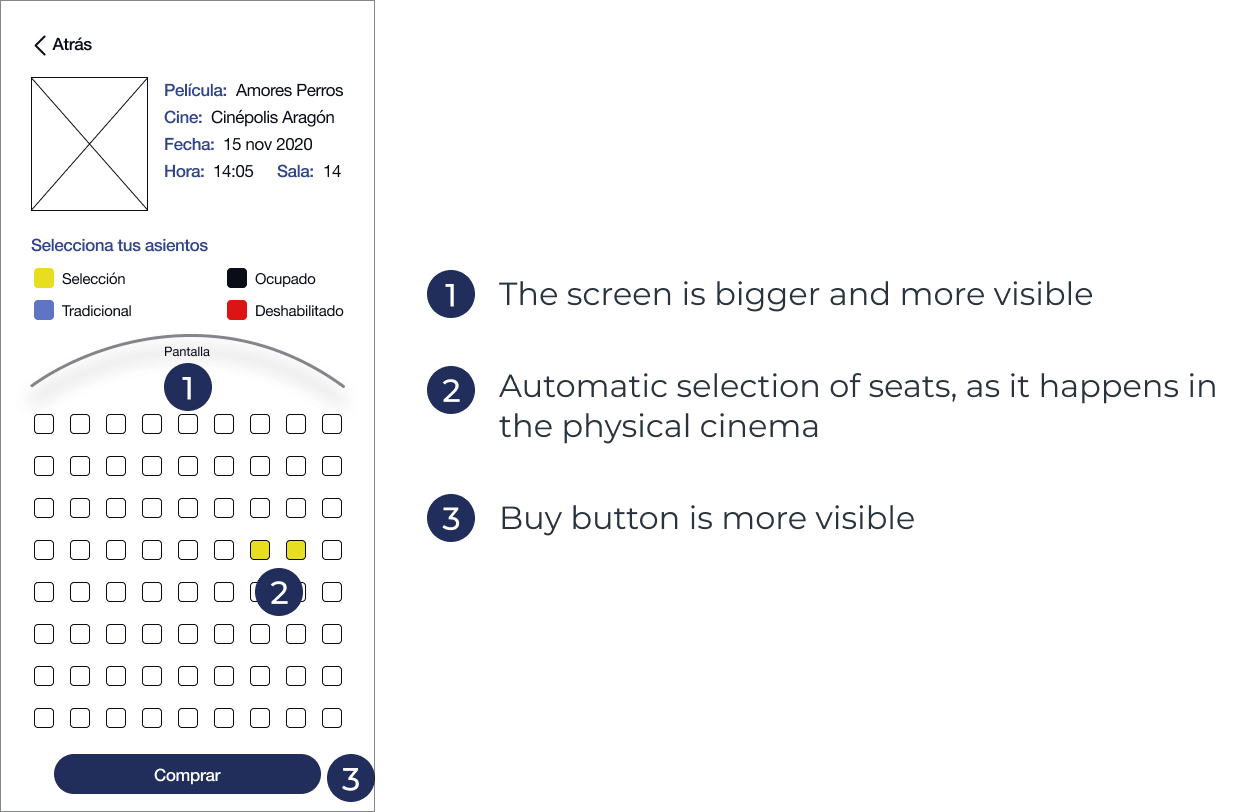
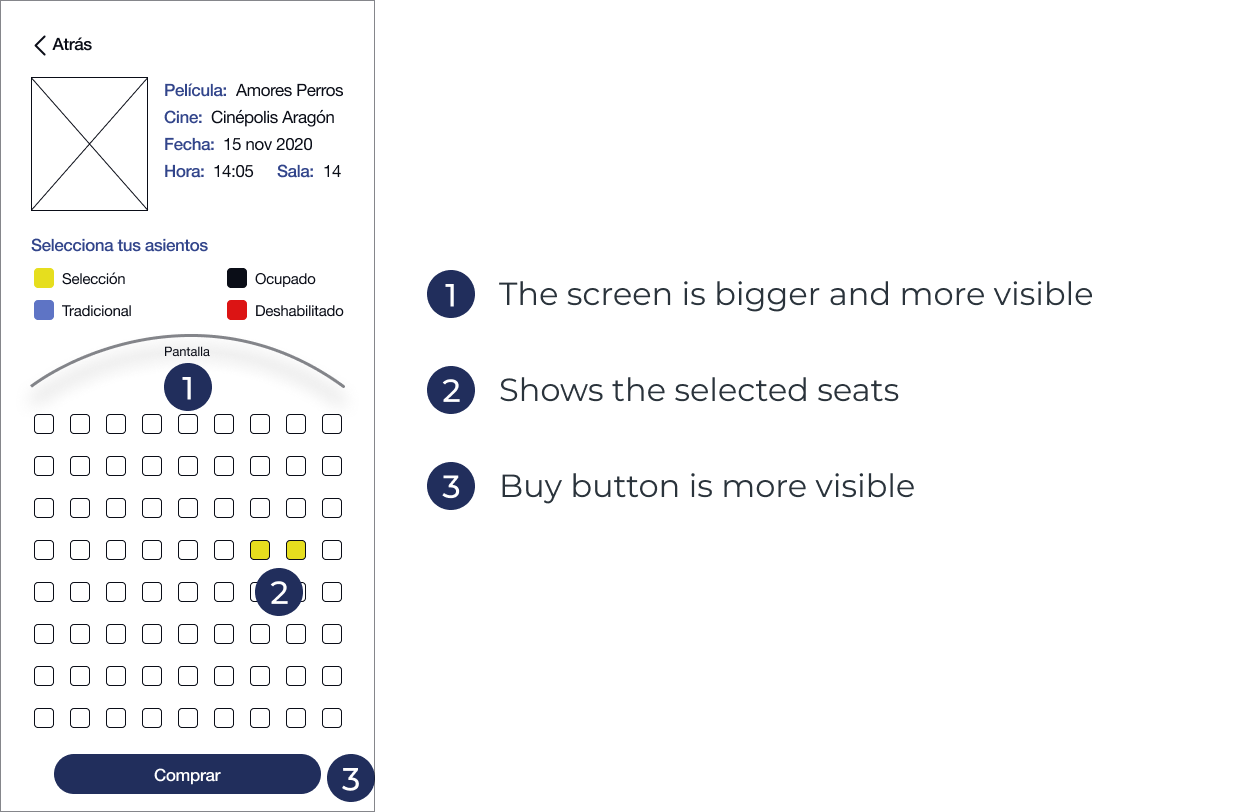
Cinepolis high-fi setup

Changed region(s): [[0.3735, 0.4618, 0.9649, 0.5542], [0.3424, 0.5542, 0.747, 0.6773]]

diff --git a/Cinepolis.html b/Cinepolis.html
@@ -505,8 +505,11 @@
                     <h3 class="summary">The redesign of the app</h3>
                     <div class="design-image-container">
                         <h4>Home</h4>
-                        <p>In my first test I noticed that the users didn't get, at first glance, what was the purpose of the app.
-                            The onboarding shows the purpose of the app and what you can do in it.
+                        <p>The home section didn't present many problems, people could navigate through it without problems. I changed the position of the list icon, as people didn't notice it in the
+                            test I did. The main change is the serch icon, a feature that lets people find a movie faster.
+                            <br>
+                            <br>
+                            The tab bar now has only two options beacuse the <i>cinema</i> it's already in the home section.
                         </p>
                         <div class="columns-container after-text">
                             <div class="column">
@@ -516,13 +519,151 @@
                             </div>
                             <div class="column">
                                 <div class="image-container moviteca-high-fi">
-                                    <img width="728" height="1471" lazy="loading" src="images/Atom/Images/Projects/Mitalla/High-Fi/1.1.0 - Onboarding.png" alt="Onboarding 2">
+                                    <img width="728" height="1471" lazy="loading" src="images/Atom/Images/Projects/Cinepolis/High-Fi/1.1.0 - Home.png" alt="Home">
                                 </div>
                             </div>
                         </div>
                     </div>
-                    <a href="https://www.figma.com/file/lC79PCS0bxWq81rUh3Lh0e/Mitalla?node-id=0%3A1" target="_blank" class="file"><h5>Figma File</h5></a>
+                    <div class="design-image-container">
+                        <h4>Search</h4>
+                        <p>People complained beacuse they had to explore through all the catalog to find a movie, it sometimes isn't available and it's a waste of time. The search section displays the cinemas where the movie is available, giving people
+                            the chance to explore the main information about the movie they're looking for.
+                        </p>
+                        <div class="columns-container after-text">
+                            <div class="column">
+                                <div class="image-container moviteca-high-fi">
+                                    <img width="728" height="1471" lazy="loading" src="images/Atom/Images/Projects/Cinepolis/High-Fi/2.0.0 - Search.png" alt="Search">
+                                </div>
+                            </div>
+                        </div>
+                    </div>
+                    <div class="design-image-container">
+                        <h4>Movie</h4>
+                        <p>The movie section only changed in the align of the text, the last design had the text justified, which now changed to left aligned.
+                        </p>
+                        <div class="columns-container after-text">
+                            <div class="column">
+                                <div class="image-container moviteca-high-fi">
+                                    <img width="728" height="1471" lazy="loading" src="images/Atom/Images/Projects/Cinepolis/High-Fi/3.0.0 - Movie.png" alt="Movie">
+                                </div>
+                            </div>
+                        </div>
+                        <div class="columns-container after-text">
+                            <div class="column">
+                                <div class="image-container moviteca-high-fi">
+                                    <img width="728" height="1471" lazy="loading" src="images/Atom/Images/Projects/Cinepolis/High-Fi/3.1.0 - Movie.png" alt="Movie">
+                                </div>
+                            </div>
+                        </div>
+                    </div>
+                    <div class="design-image-container">
+                        <h4>Tickets</h4>
+                        <p>People didn't noticed the <i>next</i> button, it wa at the top right of the screen. I changed it to the bottom, keeping th reading flow. Users can
+                            introduce a promotional code, this button was at the bottom, I decided to change its place after the ticket selector, as a lot of websites place this field.
+                        </p>
+                        <div class="columns-container after-text">
+                            <div class="column">
+                                <div class="image-container moviteca-high-fi">
+                                    <img width="728" height="1471" lazy="loading" src="images/Atom/Images/Projects/Cinepolis/High-Fi/4.1.0 - Ticket.png" alt="Ticket">
+                                </div>
+                            </div>
+                        </div>
+                    </div>
+                    <div class="design-image-container">
+                        <h4>Seats</h4>
+                        <p>The problem with this section was that people didn't noticed the screen, and this made the process of selecting seats consfusing. I did the screen bigger, so people can
+                            notice it without problems. The seats icons now have more space, so it's easier to select the ones you want without problems.
+                        </p>
+                        <div class="columns-container after-text">
+                            <div class="column">
+                                <div class="image-container moviteca-high-fi">
+                                    <img width="728" height="1471" lazy="loading" src="images/Atom/Images/Projects/Cinepolis/High-Fi/5.0.0 - Seats.png" alt="Seats">
+                                </div>
+                            </div>
+                        </div>
+                    </div>
+                    <div class="design-image-container">
+                        <h4>Summary</h4>
+                        <p>The summary was on the seats section, as I changedes it I decided to make this a single section at the end of the process, giving people all the information they introduced
+                            and a way to go back. 
+                        </p>
+                        <div class="columns-container after-text">
+                            <div class="column">
+                                <div class="image-container moviteca-high-fi">
+                                    <img width="728" height="1471" lazy="loading" src="images/Atom/Images/Projects/Cinepolis/High-Fi/6.0.0 - Summary.png" alt="Summary">
+                                </div>
+                            </div>
+                        </div>
+                    </div>
+                    <div class="design-image-container">
+                        <h4>Profile</h4>
+                        <p>The profile section didn't change so much, I removed some options that people I tested the app didn't even noticed and were unnecessary.
+                            <br>
+                            <br>
+                            The purchases section now shows more information about the movie, and the QR code is bigger and has less things around it.
+                        </p>
+                        <div class="columns-container after-text">
+                            <div class="column">
+                                <div class="image-container moviteca-high-fi">
+                                    <img width="728" height="1471" lazy="loading" src="images/Atom/Images/Projects/Cinepolis/High-Fi/8.0.0 - Profile.png" alt="Profile">
+                                </div>
+                            </div>
+                        </div>
+                        <div class="columns-container after-text">
+                            <div class="column">
+                                <div class="image-container moviteca-high-fi">
+                                    <img width="728" height="1471" lazy="loading" src="images/Atom/Images/Projects/Cinepolis/High-Fi/8.1.0 - Profile.png" alt="Profile">
+                                </div>
+                            </div>
+                        </div>
+                        <div class="columns-container after-text">
+                            <div class="column">
+                                <div class="image-container moviteca-high-fi">
+                                    <img width="728" height="1471" lazy="loading" src="images/Atom/Images/Projects/Cinepolis/High-Fi/8.2.0 - Profile.png" alt="Profile">
+                                </div>
+                            </div>
+                        </div>
+                    </div>
+                    <div class="design-image-container">
+                        <h4>Add Card</h4>
+                        <p>People didn't have the chance to add a card, the only way to do it was in the process of buying a ticket, so I added this option in <i>My cards</i> section.
+                            <br><br>
+                            Some people had some problems with the add card form, they couldn't find some of the fields in their card and there was no help. The first change I made was removing the last name field,
+                            as Cinépolis does on their website, and adding icons of help on the fields people got confused. The help icon will show an image of a card, highlithing the place where the field is
+                            and a description. 
+                        </p>
+                        <div class="columns-container after-text">
+                            <div class="column">
+                                <div class="image-container moviteca-high-fi">
+                                    <img width="728" height="1471" lazy="loading" src="images/Atom/Images/Projects/Cinepolis/High-Fi/8.3.0 - Profile.png" alt="AddCard">
+                                </div>
+                            </div>
+                        </div>
+                        <div class="columns-container after-text">
+                            <div class="column">
+                                <div class="image-container moviteca-high-fi">
+                                    <img width="728" height="1471" lazy="loading" src="images/Atom/Images/Projects/Cinepolis/High-Fi/8.4.0 - Profile.png" alt="AddCard">
+                                </div>
+                            </div>
+                        </div>
+                        <div class="columns-container after-text">
+                            <div class="column">
+                                <div class="image-container moviteca-high-fi">
+                                    <img width="728" height="1471" lazy="loading" src="images/Atom/Images/Projects/Cinepolis/High-Fi/7.0.0 - AddCard.png" alt="AddCard">
+                                </div>
+                            </div>
+                        </div>
+                        <div class="columns-container after-text">
+                            <div class="column">
+                                <div class="image-container moviteca-high-fi">
+                                    <img width="728" height="1471" lazy="loading" src="images/Atom/Images/Projects/Cinepolis/High-Fi/7.3.0 - AddCard.png" alt="AddCard">
+                                </div>
+                            </div>
+                        </div>
+                    </div>
+                    <a href="https://www.figma.com/file/hSjORKNlgK92GByNjtRqcx/Cin%C3%A9polis?node-id=42%3A0" target="_blank" class="file"><h5>Figma File</h5></a>
                 </div>
+                <!--
                 <div class="case-content">
                     <h2 class="subtitle">Prototype</h2>
                     <h3 class="summary">Prototyping with ProtoPie</h3>
@@ -538,68 +679,9 @@
                             </div>
                         </div>
                     </div>
-                    <div class="design-image-container">
-                        <h4>Registering</h4>
-                        <div class="columns-container">
-                            <div class="column">
-                                <div class="image-container">
-                                    <video width="338" height="662" poster="images/Atom/Images/Projects/Mitalla/High-Fi/2.9.0 - Register.png" autoplay loop playsinline lazy="loading">
-                                        <source src="images/Atom/Images/Projects/Mitalla/Videos/Register.mov">
-                                    </video>
-                                </div>
-                            </div>
-                        </div>
-                    </div>
-                    <div class="design-image-container">
-                        <h4>My Profile</h4>
-                        <div class="columns-container">
-                            <div class="column">
-                                <div class="image-container">
-                                    <video width="338" height="662" poster="images/Atom/Images/Projects/Mitalla/High-Fi/4.0.0 - Profile.png" autoplay loop playsinline lazy="loading">
-                                        <source src="images/Atom/Images/Projects/Mitalla/Videos/Profile.mov">
-                                    </video>
-                                </div>
-                            </div>
-                        </div>
-                    </div>
-                    <div class="design-image-container">
-                        <h4>Searching</h4>
-                        <div class="columns-container">
-                            <div class="column">
-                                <div class="image-container">
-                                    <video width="338" height="662" poster="images/Atom/Images/Projects/Mitalla/High-Fi/5.0.0 - Search.png" autoplay loop playsinline lazy="loading">
-                                        <source src="images/Atom/Images/Projects/Mitalla/Videos/Typing Search.mov">
-                                    </video>
-                                </div>
-                            </div>
-                        </div>
-                    </div>
-                    <div class="design-image-container">
-                        <h4>Searching by Photo</h4>
-                        <div class="columns-container">
-                            <div class="column">
-                                <div class="image-container">
-                                    <video width="338" height="662" poster="images/Atom/Images/Projects/Mitalla/High-Fi/5.0.0 - Search.png" autoplay loop playsinline lazy="loading">
-                                        <source src="images/Atom/Images/Projects/Mitalla/Videos/Search by Photo.mov">
-                                    </video>
-                                </div>
-                            </div>
-                        </div>
-                    </div>
-                    <div class="design-image-container">
-                        <h4>Buying an Item</h4>
-                        <div class="columns-container">
-                            <div class="column">
-                                <div class="image-container">
-                                    <video width="338" height="662" poster="images/Atom/Images/Projects/Mitalla/High-Fi/6.1.0 - Single Item.png" autoplay loop playsinline lazy="loading">
-                                        <source src="images/Atom/Images/Projects/Mitalla/Videos/Buying an Item.mov">
-                                    </video>
-                                </div>
-                            </div>
-                        </div>
-                    </div>
                     <a href="https://cloud.protopie.io/p/8e74f06dbc" target="_blank" class="file"><h5>ProtoPie Prototype</h5></a>
                 </div>
+                -->
             </section>
             <section>
                 <div class="case-content">
